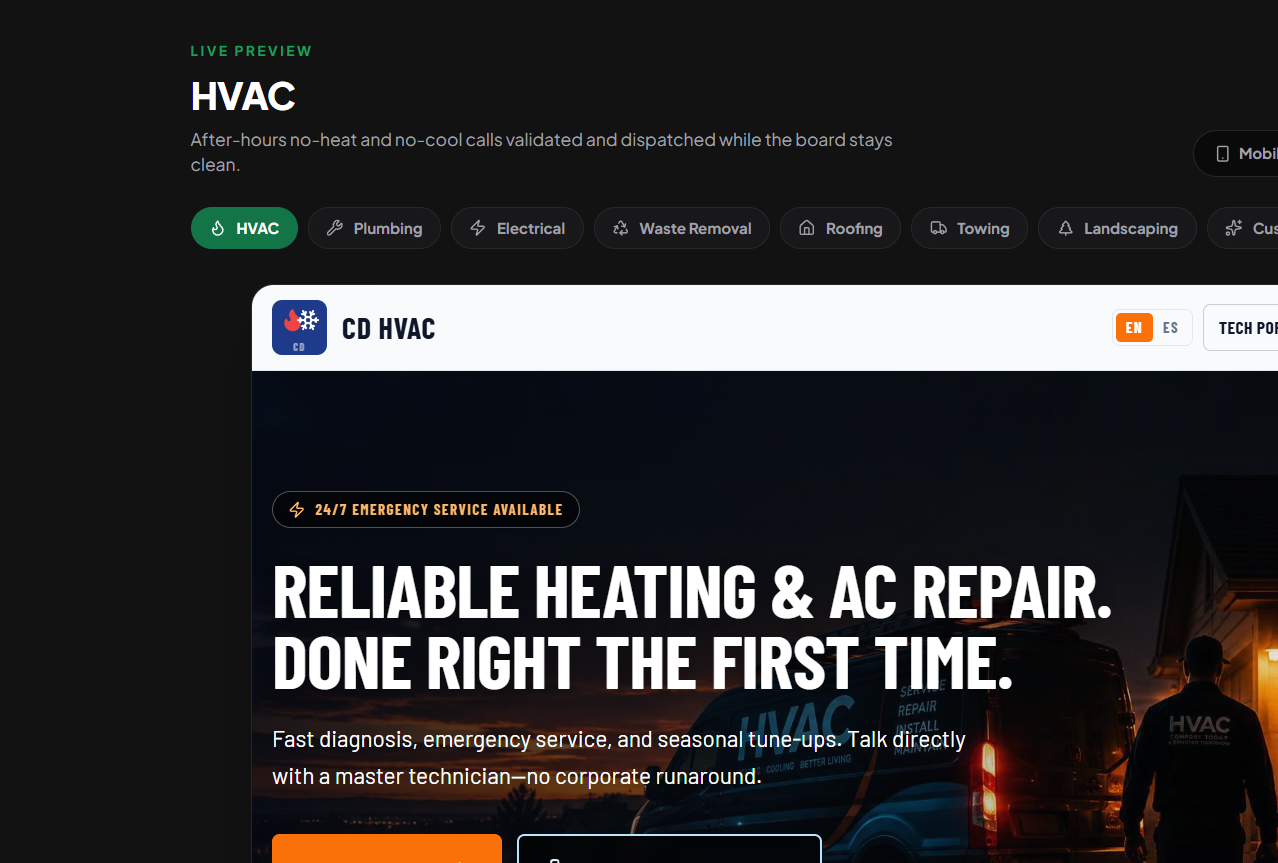
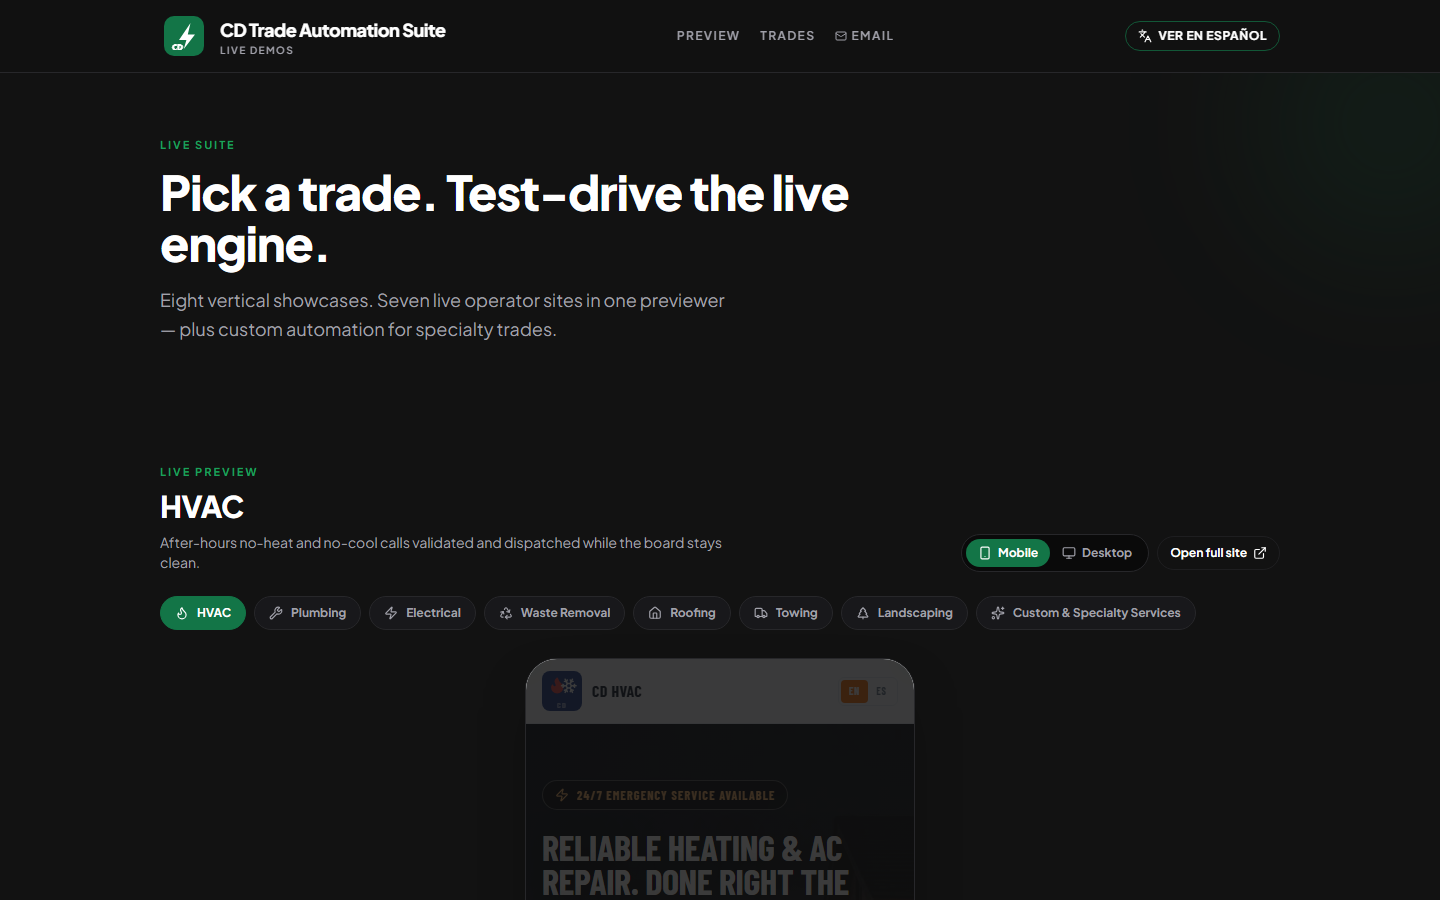
feat: update demo hub preview and remove unused trade-related code from Start page

diff --git a/src/pages/Start.tsx b/src/pages/Start.tsx
@@ -1,12 +1,12 @@
 import { useMemo } from "react";
 import { useSearchParams } from "react-router-dom";
 import { motion } from "framer-motion";
-import { Clapperboard, ExternalLink, Languages } from "lucide-react";
+import { ExternalLink, Languages } from "lucide-react";
 import { InlineWidget } from "react-calendly";
 import Footer from "@/components/Footer";
 import SEOManager from "@/components/SEOManager";
 import { useTranslation } from "@/components/LanguageProvider";
-import { DEMO_HUB_URL, START_TRADES, hubTradeUrl } from "@/data/trades";
+import { DEMO_HUB_URL } from "@/data/trades";
 
 /**
  * QR-only landing. Not linked from the public homepage —
@@ -38,11 +38,10 @@ const Start = () => {
           title: "Watch the walk-through.",
           titleAccent: "Then drive it live.",
           subtitle:
-            "This video walks the CD Trade Automation Suite — then open any trade below or book time if you want a custom build.",
-          videoBadge: "DEMO VIDEO — COMING SOON",
-          videoAlt: "Demo video placeholder",
+            "Open the CD Trade Automation Suite to test-drive live trade demos — or book time if you want a custom build.",
+          previewAlt: "CD Trade Automation Suite preview",
+          previewBadge: "Live Suite",
           openHub: "Open full demo hub",
-          tradesTitle: "Jump into a trade",
           bookTitleLead: "Book Your",
           bookTitleAccent: "Strategy Session",
           bookBody:
@@ -53,11 +52,10 @@ const Start = () => {
           title: "Vea el recorrido.",
           titleAccent: "Luego pruébelo en vivo.",
           subtitle:
-            "Este video recorre la Suite de Automatización CD — luego abra un oficio abajo o agende si quiere un build a medida.",
-          videoBadge: "VIDEO DEMO — PRÓXIMAMENTE",
-          videoAlt: "Marcador de posición del video demo",
+            "Abra la Suite de Automatización CD para probar demos de oficios en vivo — o agende si quiere un build a medida.",
+          previewAlt: "Vista previa de la Suite de Automatización CD",
+          previewBadge: "Suite en vivo",
           openHub: "Abrir hub completo",
-          tradesTitle: "Entrar a un oficio",
           bookTitleLead: "Agende Su",
           bookTitleAccent: "Sesión de Estrategia",
           bookBody:
@@ -100,7 +98,7 @@ const Start = () => {
           }}
         />
 
-        {/* Video (promised on the card) */}
+        {/* Demo hub preview */}
         <section className="relative px-4 pb-6 pt-8 sm:px-6 sm:pt-10">
           <div className="relative z-10 mx-auto max-w-3xl text-center">
             <h1 className="text-3xl font-black uppercase tracking-tight sm:text-4xl">
@@ -111,59 +109,30 @@ const Start = () => {
               {copy.subtitle}
             </p>
 
-            <div className="relative mt-6 w-full overflow-hidden rounded-2xl border border-[#27272A] bg-[#18181B]">
-              <div className="relative aspect-video w-full">
-                <img
-                  src="/images/demo-preview.jpg"
-                  alt={copy.videoAlt}
-                  className="absolute inset-0 h-full w-full object-cover object-top opacity-40"
-                />
-                <div className="absolute inset-0 flex items-center justify-center px-4">
-                  <div className="inline-flex max-w-full items-center gap-2 rounded-full border border-zinc-700 bg-zinc-950/90 px-4 py-2.5 font-mono text-[11px] text-emerald-400 backdrop-blur-md sm:text-sm">
-                    <span className="opacity-60">[</span>
-                    <Clapperboard className="h-4 w-4 shrink-0" />
-                    <span className="truncate">{copy.videoBadge}</span>
-                    <span className="opacity-60">]</span>
-                  </div>
-                </div>
-              </div>
-            </div>
-
             <a
               href={hubHome}
               target="_blank"
               rel="noopener noreferrer"
-              className="mt-5 inline-flex min-h-[48px] w-full items-center justify-center gap-2 rounded-xl bg-[#10b981] px-5 py-3.5 text-sm font-black uppercase tracking-wider text-zinc-950 transition-colors hover:bg-[#0ea672] sm:w-auto sm:px-8"
+              aria-label={copy.openHub}
+              className="group relative mt-6 block w-full overflow-hidden rounded-2xl border border-[#27272A] bg-[#18181B] transition-all duration-300 hover:border-[#10b981]/50 hover:shadow-[0_20px_50px_-15px_rgba(16,185,129,0.35)]"
             >
-              {copy.openHub}
-              <ExternalLink className="h-4 w-4" />
+              <span className="absolute right-3 top-3 z-10 rounded-full border border-[#10b981]/40 bg-[#18181B]/90 px-3 py-1 text-[10px] font-black uppercase tracking-widest text-[#10b981] backdrop-blur-sm sm:right-4 sm:top-4">
+                {copy.previewBadge}
+              </span>
+              <img
+                src="/images/demo-preview.jpg"
+                alt={copy.previewAlt}
+                className="block aspect-video w-full object-cover object-top transition-transform duration-500 group-hover:scale-[1.02]"
+              />
+              <div className="pointer-events-none absolute inset-0 bg-[#10b981]/0 transition-colors duration-300 group-hover:bg-[#10b981]/5" />
+              <div className="absolute bottom-3 left-3 right-3 sm:bottom-4 sm:left-4 sm:right-4">
+                <span className="inline-flex w-full items-center justify-center gap-2 rounded-xl bg-[#10b981] px-5 py-3 text-sm font-black uppercase tracking-wider text-zinc-950 shadow-lg transition-colors group-hover:bg-[#0ea672] sm:w-fit">
+                  {copy.openHub}
+                  <ExternalLink className="h-4 w-4" />
+                </span>
+              </div>
             </a>
           </div>
-        </section>
-
-        {/* Trade deep-links — compact chips only */}
-        <section className="relative z-10 px-4 pb-16 sm:px-6 sm:pb-20">
-          <motion.div className="mx-auto max-w-3xl" {...revealProps}>
-            <p className="mb-3 text-center text-[10px] font-black uppercase tracking-[0.18em] text-muted-foreground">
-              {copy.tradesTitle}
-            </p>
-            <div className="flex flex-wrap justify-center gap-2">
-              {START_TRADES.filter((t) => t.id !== "custom").map((trade) => {
-                const label = lang === "en" ? trade.labelEn : trade.labelEs;
-                return (
-                  <a
-                    key={trade.id}
-                    href={hubTradeUrl(trade.id, searchParams)}
-                    target="_blank"
-                    rel="noopener noreferrer"
-                    className="rounded-full border border-foreground/15 bg-zinc-950 px-3.5 py-2 text-[11px] font-black uppercase tracking-wider text-foreground transition-colors hover:border-[#10b981] hover:text-[#10b981]"
-                  >
-                    {label}
-                  </a>
-                );
-              })}
-            </div>
-          </motion.div>
         </section>
 
         {/* Book + Calendly */}

diff --git a/src/data/trades.ts b/src/data/trades.ts
@@ -1,53 +1,1 @@
-export type TradeId =
-  | "hvac"
-  | "plumbing"
-  | "electrical"
-  | "waste"
-  | "roofing"
-  | "towing"
-  | "landscaping"
-  | "custom";
-
-export type TradeChip = {
-  id: TradeId;
-  labelEn: string;
-  labelEs: string;
-};
-
 export const DEMO_HUB_URL = "https://demo.carrillodynamics.com";
-
-export const CONTACT = {
-  phoneE164: "+13124560987",
-  phoneDisplay: "(312) 456-0987",
-  email: "nico@carrillodynamics.com",
-  smsHref: "sms:+13124560987",
-  telHref: "tel:+13124560987",
-  mailHref: "mailto:nico@carrillodynamics.com",
-} as const;
-
-/** Chip order for /start QR funnel — mirrors demo hub registry. */
-export const START_TRADES: TradeChip[] = [
-  { id: "hvac", labelEn: "HVAC", labelEs: "HVAC" },
-  { id: "plumbing", labelEn: "Plumbing", labelEs: "Plomería" },
-  { id: "electrical", labelEn: "Electrical", labelEs: "Eléctrico" },
-  { id: "waste", labelEn: "Waste", labelEs: "Residuos" },
-  { id: "roofing", labelEn: "Roofing", labelEs: "Techado" },
-  { id: "towing", labelEn: "Towing", labelEs: "Grúas" },
-  { id: "landscaping", labelEn: "Landscaping", labelEs: "Paisajismo" },
-  { id: "custom", labelEn: "Custom", labelEs: "A medida" },
-];
-
-export function hubTradeUrl(tradeId: TradeId, searchParams?: URLSearchParams): string {
-  const url = new URL(DEMO_HUB_URL);
-  if (tradeId !== "hvac") {
-    url.searchParams.set("trade", tradeId);
-  }
-  // Pass through UTM / card scan attribution when present
-  if (searchParams) {
-    ["utm_source", "utm_medium", "utm_campaign", "src", "v"].forEach((key) => {
-      const val = searchParams.get(key);
-      if (val) url.searchParams.set(key, val);
-    });
-  }
-  return url.toString();
-}
